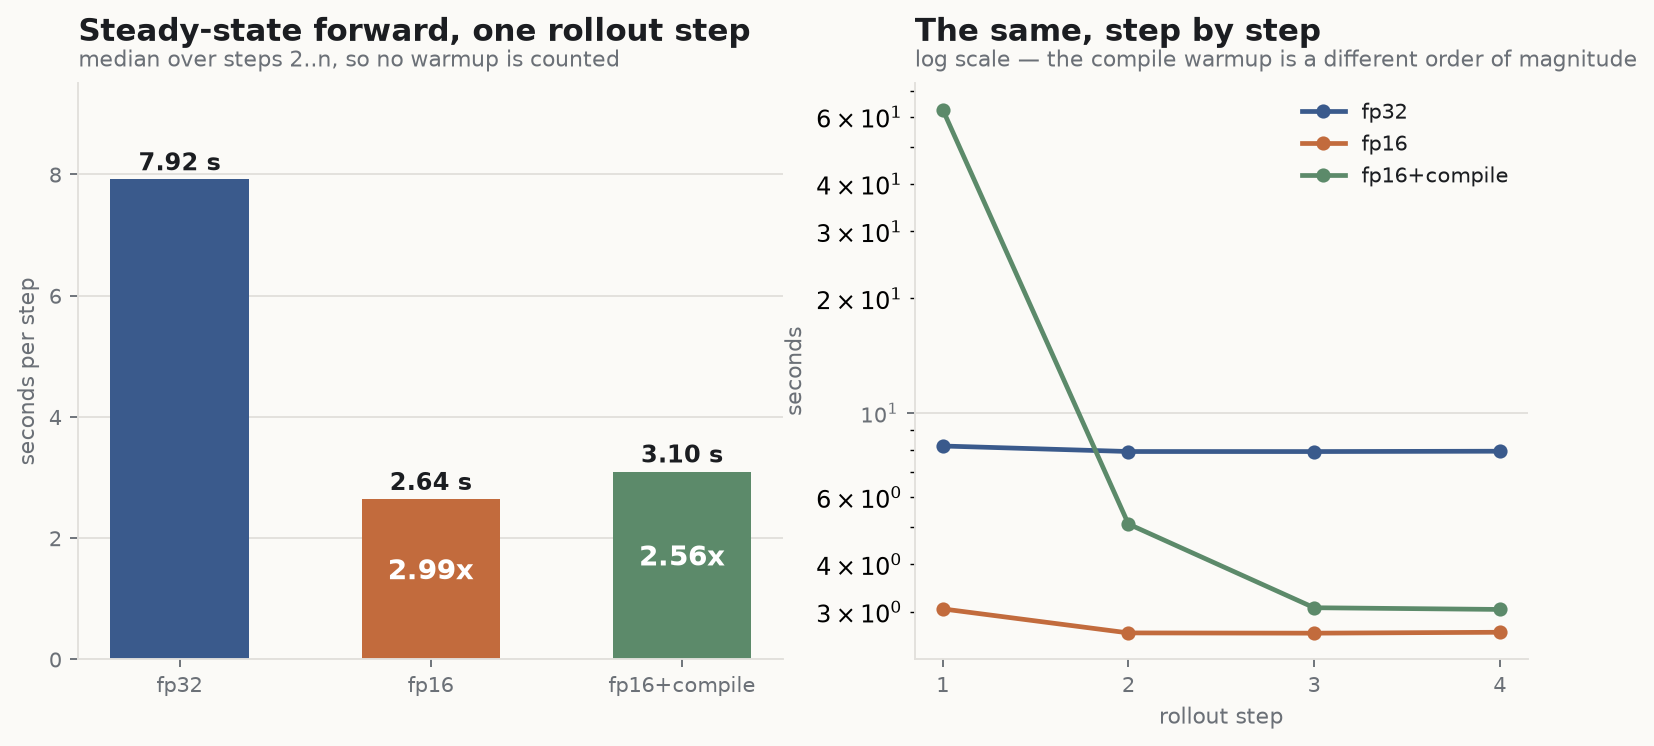
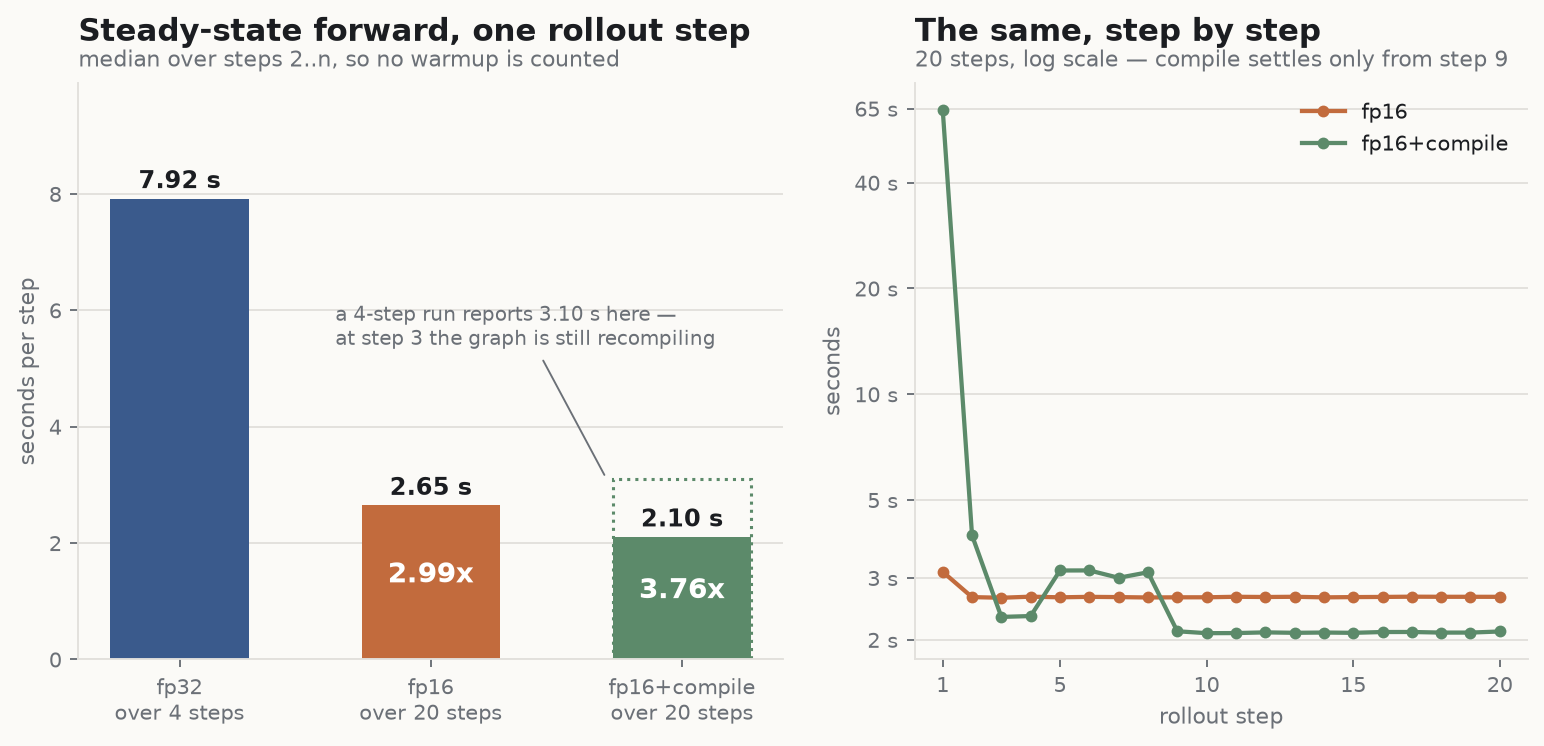
bench: draw compile's steady step from the 20-step run, not the 4-step one
A 4-step sweep catches the compiled graph mid-recompilation, so the chart said
compile was slower than eager while the text said the opposite. The steady bar
now comes from longrun*.json, with the misleading short-run value drawn hollow,
and the step-by-step panel shows all 20 steps.

diff --git a/scripts/plot_bench.py b/scripts/plot_bench.py
@@ -132,41 +132,85 @@ def chart_stages(records) -> None:
     save(fig, "stages")
 
 
-def chart_perstep(records) -> None:
-    """Per-step forward cost, and what the compile warmup costs to get it."""
+def chart_perstep(records, longruns: dict | None = None) -> None:
+    """Per-step forward cost, and what the compile warmup costs to get it.
+
+    The compiled variant needs its own source. A four-step run does not reach a
+    steady state at all: the graph is still being recompiled at step 3, so the
+    median over steps 2..4 is a warmup number, and plotting it next to the two
+    eager variants would say the opposite of what the twenty-step run says.
+    """
+    longruns = longruns or {}
     variants = ["fp32", "fp16", "fp16+compile"]
+
+    def steady_of(v):
+        """Twenty steps where measured, four where that is all there is."""
+        if v in longruns:
+            return longruns[v]["forward_steady_s"], longruns[v]["steps"]
+        rs = [r for r in records if r["variant"] == v and r["steps"] == 4]
+        return float(np.mean([r["forward_steady_s"] for r in rs])), 4
+
     fig, axes = plt.subplots(1, 2, figsize=(11, 4.4),
                              gridspec_kw={"width_ratios": [1.15, 1]})
 
     ax = axes[0]
-    steady = [np.mean([r["forward_steady_s"] for r in records
-                       if r["variant"] == v and r["steps"] == 4]) for v in variants]
-    bars = ax.bar(variants, steady, color=[COLOR[v] for v in variants],
-                  width=0.55)
-    base = steady[0]
-    for b, val in zip(bars, steady):
-        ax.text(b.get_x() + b.get_width() / 2, val + 0.15, f"{val:.2f} s",
+    steady = [steady_of(v) for v in variants]
+    vals = [s for s, _ in steady]
+    bars = ax.bar(variants, vals, color=[COLOR[v] for v in variants], width=0.55)
+    base = vals[0]
+    ax.set_xticks(range(len(variants)),
+                  [f"{v}\nover {n} steps" for v, (_, n) in zip(variants, steady)])
+    for b, (val, n) in zip(bars, steady):
+        ax.text(b.get_x() + b.get_width() / 2, val + 0.18, f"{val:.2f} s",
                 ha="center", color=INK, fontsize=10, fontweight="600")
         if val != base:
             ax.text(b.get_x() + b.get_width() / 2, val / 2,
                     f"{base / val:.2f}x", ha="center", color="white",
                     fontsize=12, fontweight="700")
-    ax.set_ylim(0, max(steady) * 1.2)
+
+    # The number a short sweep would have reported for the compiled variant,
+    # drawn hollow so it cannot be mistaken for a measurement of steady state.
+    short = [r["forward_steady_s"] for r in records
+             if r["variant"] == "fp16+compile" and r["steps"] == 4]
+    if short and "fp16+compile" in longruns:
+        x = bars[2].get_x() + bars[2].get_width() / 2
+        ax.bar([x], [float(np.mean(short))], width=0.55, facecolor="none",
+               edgecolor=COLOR["fp16+compile"], linewidth=1.3, linestyle=":")
+        ax.annotate(f"a 4-step run reports {np.mean(short):.2f} s here —\n"
+                    "at step 3 the graph is still recompiling",
+                    xy=(x - 0.3, float(np.mean(short))), xytext=(0.62, max(vals) * 0.72),
+                    color=MUTED, fontsize=8.5, ha="left", va="center",
+                    arrowprops=dict(arrowstyle="-", color=MUTED, linewidth=0.8))
+    ax.set_ylim(0, max(vals) * 1.25)
     style(ax, "Steady-state forward, one rollout step",
           "median over steps 2..n, so no warmup is counted")
     ax.set_ylabel("seconds per step", color=MUTED, fontsize=9.5)
 
     ax = axes[1]
-    for v in variants:
-        rs = [r for r in records if r["variant"] == v and r["steps"] == 4]
-        curves = np.array([r["forward_s"] for r in rs])
-        mean = curves.mean(axis=0)
-        ax.plot(range(1, len(mean) + 1), mean, "o-", color=COLOR[v], label=v,
-                linewidth=2, markersize=5)
+    if longruns:
+        for v in ("fp16", "fp16+compile"):
+            if v not in longruns:
+                continue
+            fwd = longruns[v]["forward_s"]
+            ax.plot(range(1, len(fwd) + 1), fwd, "o-", color=COLOR[v], label=v,
+                    linewidth=1.8, markersize=4)
+        ax.set_xticks([1, 5, 10, 15, 20])
+        sub = "20 steps, log scale — compile settles only from step 9"
+    else:
+        for v in variants:
+            rs = [r for r in records if r["variant"] == v and r["steps"] == 4]
+            mean = np.array([r["forward_s"] for r in rs]).mean(axis=0)
+            ax.plot(range(1, len(mean) + 1), mean, "o-", color=COLOR[v], label=v,
+                    linewidth=2, markersize=5)
+        ax.set_xticks([1, 2, 3, 4])
+        sub = "log scale — the compile warmup is a different order of magnitude"
     ax.set_yscale("log")
-    ax.set_xticks([1, 2, 3, 4])
-    style(ax, "The same, step by step",
-          "log scale — the compile warmup is a different order of magnitude")
+    # Explicit ticks: the default log locator litters the axis with 3×10⁰-style
+    # minor labels that say nothing about a 2 s / 65 s contrast.
+    ax.minorticks_off()
+    ax.set_yticks([2, 3, 5, 10, 20, 40, 65])
+    ax.set_yticklabels(["2 s", "3 s", "5 s", "10 s", "20 s", "40 s", "65 s"])
+    style(ax, "The same, step by step", sub)
     ax.set_xlabel("rollout step", color=MUTED, fontsize=9.5)
     ax.set_ylabel("seconds", color=MUTED, fontsize=9.5)
     ax.legend(frameon=False, fontsize=9, labelcolor=INK)
@@ -454,9 +498,18 @@ def chart_ssh(records) -> None:
 def main() -> int:
     print("charts:")
     stages = load("stages")
+    # The twenty-step runs, one file per variant, written by `case --steps 20`.
+    # They are single records rather than lists, and they are the only place a
+    # compiled steady state actually exists.
+    longruns = {}
+    for name in ("longrun", "longrun_fp16"):
+        path = RESULTS / f"{name}.json"
+        if path.exists():
+            rec = json.loads(path.read_text())
+            longruns[rec["variant"]] = rec
     if stages:
         chart_stages(stages)
-        chart_perstep(stages)
+        chart_perstep(stages, longruns)
         chart_memory(stages)
     svc = load("service")
     if svc:
